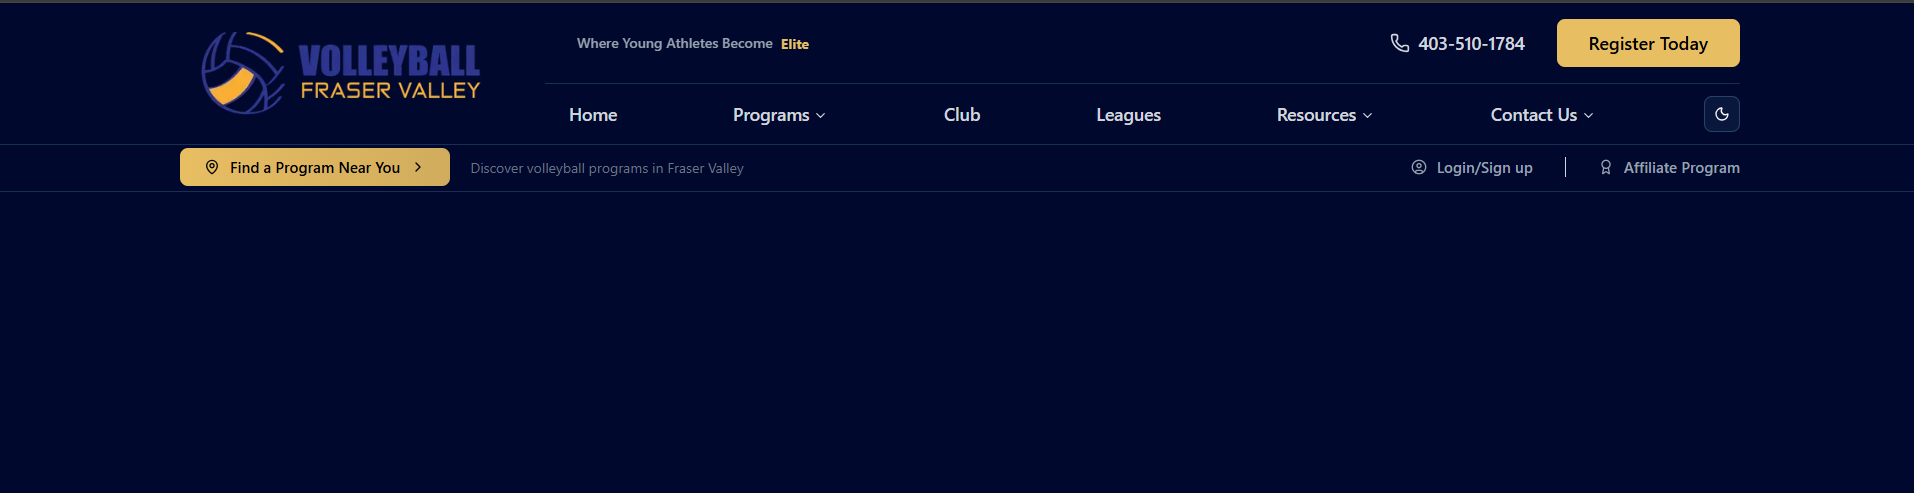
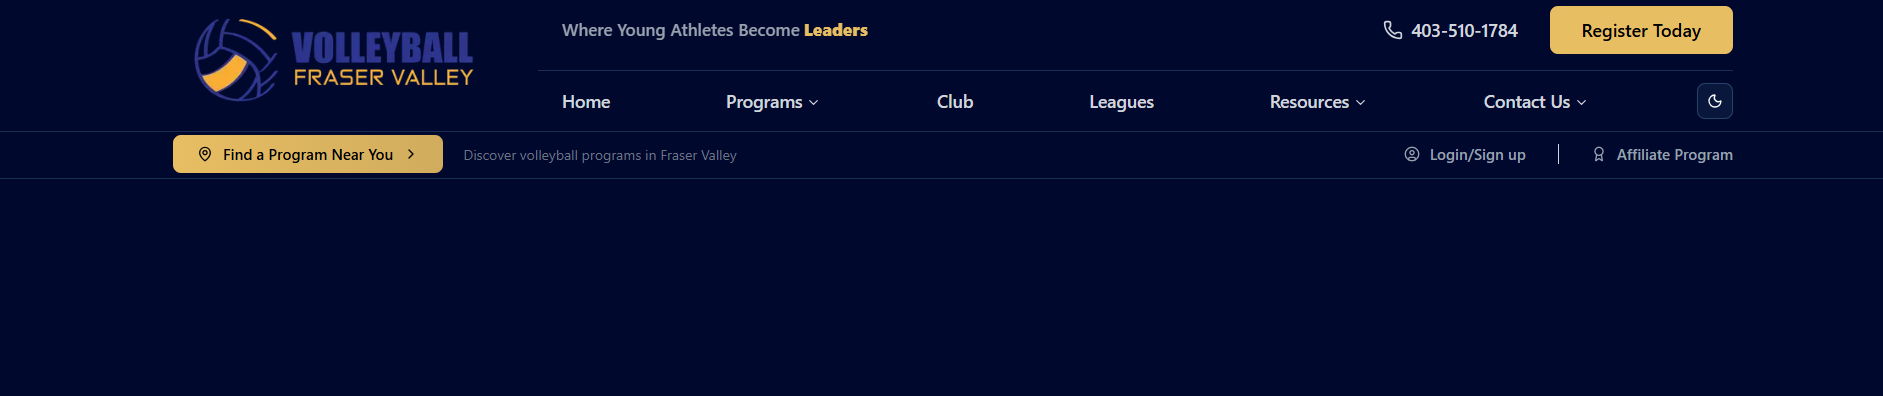
style: increase tagline font size for better visual hierarchy

diff --git a/components/ui/animated-tagline.tsx b/components/ui/animated-tagline.tsx
@@ -18,13 +18,13 @@ export function AnimatedTagline({ className }: AnimatedTaglineProps) {
       animate={{ opacity: 1, filter: "blur(0px)", y: 0 }}
       transition={{ duration: 0.8, ease: "easeOut" }}
     >
-      <span className="text-[17px] font-medium text-gray-600 dark:text-gray-400">
+      <span className="text-[19px] font-medium text-gray-600 dark:text-gray-400">
         Where Young Athletes Become
       </span>
       <WordRotate
         words={rotatingWords}
         duration={3000}
-        className="text-[17px] font-extrabold text-primary"
+        className="text-[20px] font-extrabold text-primary"
         motionProps={{
           initial: { opacity: 0, y: -20 },
           animate: { opacity: 1, y: 0 },
